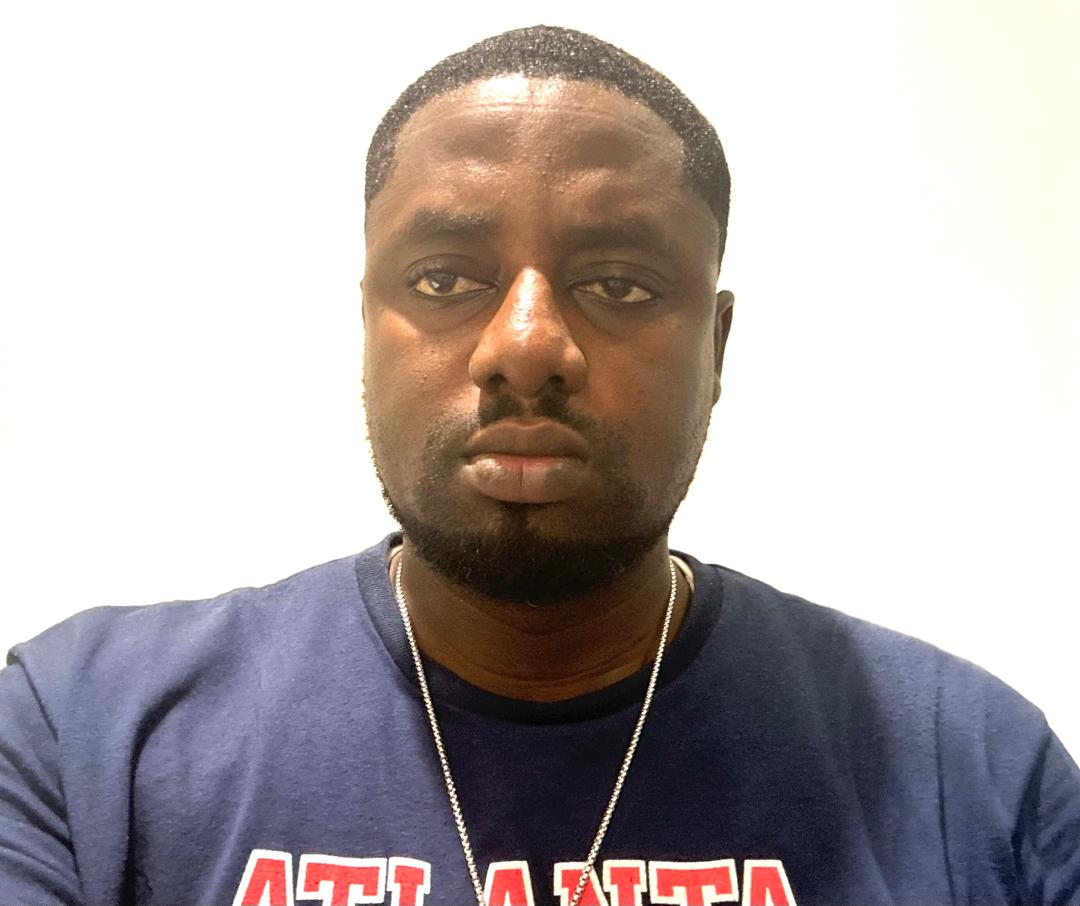
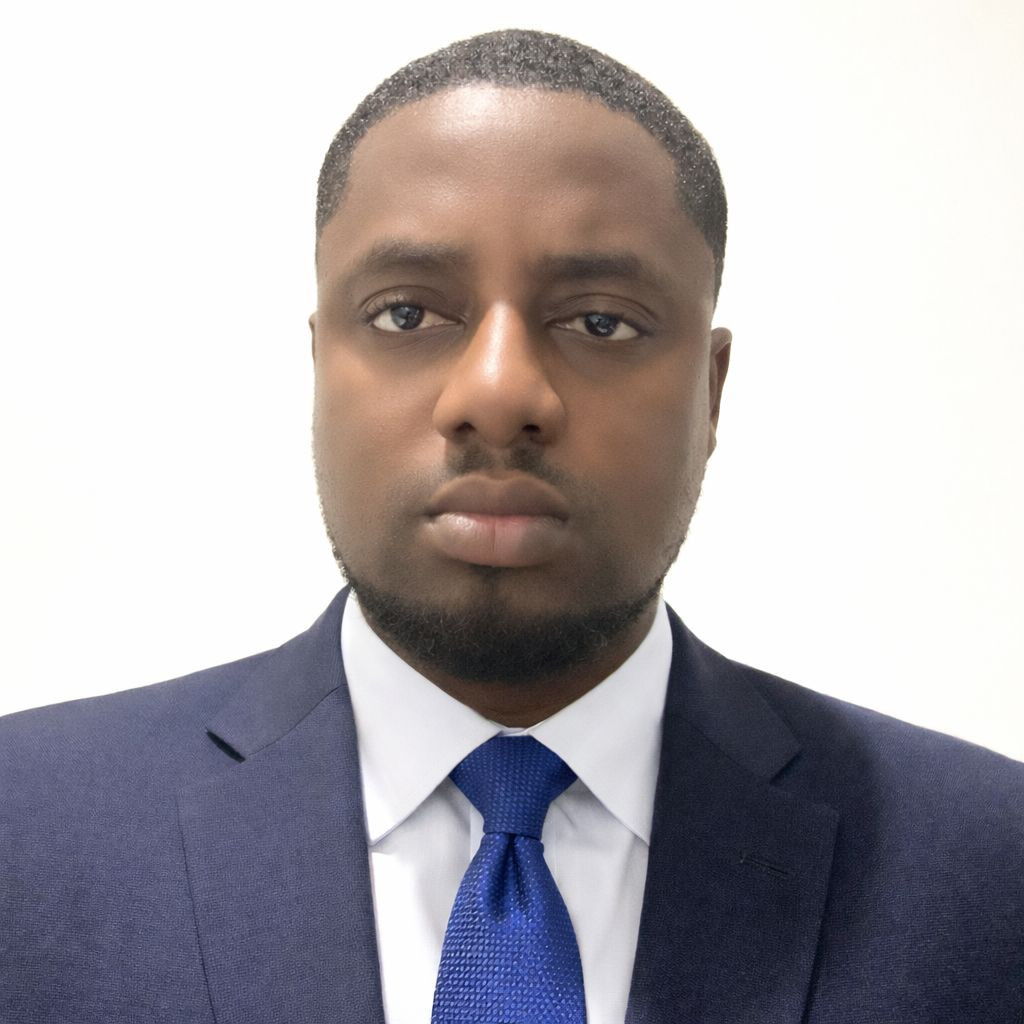
minor changes

diff --git a/src/components/Footer.tsx b/src/components/Footer.tsx
@@ -9,10 +9,10 @@ const Footer = () => {
           {/* Brand */}
           <div className="md:col-span-1">
             <h3 className="font-display text-2xl font-bold mb-4">
-              PK5<span className="text-gold"> Agro</span>
+              PK5<span className="text-gold"> Agro-Allied</span>
             </h3>
             <p className="font-body text-primary-foreground/60 text-sm leading-relaxed">
-              Cultivating excellence across Nigeria's agricultural landscape since 2025.
+              Cultivating excellence across the agricultural landscape since 2021.
             </p>
           </div>
 
@@ -36,7 +36,7 @@ const Footer = () => {
           <div>
             <h4 className="font-display text-lg font-semibold mb-4 text-gold">Products</h4>
             <div className="flex flex-col gap-2">
-              {["Palm Kernel", "Cocoa", "plantains"].map((item) => (
+              {["Palm Kernel", "Cocoa", "Plantain"].map((item) => (
                 <Link
                   key={item}
                   to="/products"
@@ -70,36 +70,36 @@ const Footer = () => {
               </a>
 
               <a
-                href="https://www.google.com/maps?q=Apt.%20B%20Imanium%20Estate,%20Nathaniel%20Akpan%20Street,%20Off%20Ekpri%20Nsukara,%20Uyo,%20Akwa%20Ibom%20State"
+                href="https://www.google.com/maps/search/?api=1&query=2%2F5%2C+Nza+Street%2C+Independence+Layout+Enugu%2C+Enugu+State%2C+Nigeria"
                 target="_blank"
                 rel="noopener noreferrer"
                 className="flex items-start gap-3 hover:text-gold transition-colors"
               >
                 <MapPin className="w-4 h-4 text-gold mt-0.5 shrink-0" />
                 <span className="font-body text-sm text-primary-foreground/60 hover:text-primary-foreground">
-                  Apt. B Imanium Estate, Nathaniel Akpan Street, Off Ekpri Nsukara. Uyo. Akwa Ibom State.
+                  2/5, Nza Street, Independence Layout Enugu, Enugu State, Nigeria
                 </span>
               </a>
 
               {/* Phone */}
               <a
-                href="tel:+2348026133205"
+                href="tel:+14044365533"
                 className="flex items-center gap-3 hover:text-gold transition-colors"
               >
                 <Phone className="w-4 h-4 text-gold shrink-0" />
                 <span className="font-body text-sm text-primary-foreground/60 hover:text-primary-foreground">
-                  +2348026133205
+                  +1 (404) 436-5533               
                 </span>
               </a>
 
               {/* Email */}
               <a
-                href="mailto:info@agroallied.com"
+                href="mailto:Info@pk5agroallied.com"
                 className="flex items-center gap-3 hover:text-gold transition-colors"
               >
                 <Mail className="w-4 h-4 text-gold shrink-0" />
                 <span className="font-body text-sm text-primary-foreground/60 hover:text-primary-foreground">
-                  info@agroallied.com
+                  Info@pk5agroallied.com
                 </span>
               </a>
 
@@ -107,15 +107,15 @@ const Footer = () => {
           </div>
         </div>
 
-        <div className="border-t border-primary-foreground/10 pt-8 flex flex-col md:flex-row justify-between items-center gap-4">
+        <div className="border-t border-primary-foreground/10 pt-8 flex flex-col md:flex-row justify-center items-center gap-4">
           <p className="font-body text-xs text-primary-foreground/40">
-            © 2025 PK5 Agro Allied. All rights reserved.
+            ©{new Date().getFullYear()} PK5 Agro-Allied. All rights reserved.
           </p>
-          <div className="flex gap-6">
+          {/* <div className="flex gap-6">
             <span className="font-body text-xs text-primary-foreground/40">NAFDAC Certified</span>
             <span className="font-body text-xs text-primary-foreground/40">SON Approved</span>
             <span className="font-body text-xs text-primary-foreground/40">Export Licensed</span>
-          </div>
+          </div> */}
         </div>
       </div>
     </footer>

diff --git a/src/pages/Contact.tsx b/src/pages/Contact.tsx
@@ -96,7 +96,7 @@ function Contact() {
 
                   {/* Branch Office */}
                   <a
-                    href="https://www.google.com/maps/search/?api=1&query=Apt+B+Imanium+Estate+Nathaniel+Akpan+Street+Off+Ekpri+Nsukara+Uyo+Akwa+Ibom+State+Nigeria"
+                    href="https://www.google.com/maps/search/?api=1&query=2%2F5%2C+Nza+Street%2C+Independence+Layout+Enugu%2C+Enugu+State%2C+Nigeria"
                     target="_blank"
                     rel="noopener noreferrer"
                     className="flex items-start gap-4 hover:bg-muted/40 p-2 rounded-lg transition"
@@ -109,7 +109,7 @@ function Contact() {
                         Branch Office
                       </h3>
                       <p className="font-body text-sm text-muted-foreground">
-                        Apt. B Imanium Estate, Nathaniel Akpan Street, Off Ekpri Nsukara, Uyo, Akwa Ibom State, Nigeria
+                       2/5, Nza Street, Independence Layout Enugu, Enugu State, Nigeria
                       </p>
                     </div>
                   </a>
@@ -120,16 +120,16 @@ function Contact() {
                     </div>
                     <div>
                       <h3 className="font-body text-sm font-semibold text-foreground">Phone</h3>
-                      <p className="font-body text-sm text-muted-foreground">+234 802 613 3205</p>
+                      <p className="font-body text-sm text-muted-foreground">+1 (404) 436-5533</p>
                     </div>
                   </a>
-                  <a href="mailto:info@agroallied.com" className="flex items-start gap-4 hover:bg-muted/40 p-2 rounded-lg transition">
+                  <a href="mailto:Info@pk5agroallied.com" className="flex items-start gap-4 hover:bg-muted/40 p-2 rounded-lg transition">
                     <div className="w-10 h-10 rounded-full bg-primary/10 flex items-center justify-center shrink-0">
                       <Mail className="w-5 h-5 text-accent" />
                     </div>
                     <div>
                       <h3 className="font-body text-sm font-semibold text-foreground">Email</h3>
-                      <p className="font-body text-sm text-muted-foreground">info@agroallied.com</p>
+                      <p className="font-body text-sm text-muted-foreground">Info@pk5agroallied.com</p>
                     </div>
                   </a>
                 </div>
@@ -185,7 +185,7 @@ function Contact() {
                         disabled={isSubmitting}
                         value={form.phone}
                         onChange={(e) => setForm({ ...form, phone: e.target.value })}
-                        placeholder="+234..."
+                        placeholder="e.g +1404..... "
                       />
                     </div>
                     <div>

diff --git a/src/pages/About.tsx b/src/pages/About.tsx
@@ -14,8 +14,7 @@ const About = () => {
             Our Story
           </h1>
           <p className="font-body text-primary-foreground/70 text-lg leading-relaxed">
-            PK5 Agro Allied was founded with a single vision: to harness Nigeria's vast
-            agricultural potential and deliver world-class products to local and international markets.
+            PK5 Agro-Allied was founded with a single vision: to harness vast agricultural potential and deliver world-class products to local and international markets.
           </p>
         </div>
       </section>
@@ -75,9 +74,9 @@ const About = () => {
           </h2>
           <div className="grid grid-cols-1 sm:grid-cols-3 gap-8 max-w-4xl mx-auto">
             {[
-              { name: "Prince Nnaemeka Njoku", role: "CEO & Founder", image: princeImg },
-              { name: "Peter Eziakor", role: "Head of Facilities & Production", image: peterImg},
-              { name: "Alozie Okwukanma", role: "Head of IT", image: alozieImg},
+              { name: "Prince  Njoku", role: "CEO & Founder", image: princeImg },
+              { name: "Peter Eziakor", role: "Director of Corporate Affairs", image: peterImg},
+              { name: "Alozie Okwukanma", role: "Director of ICT", image: alozieImg},
             ].map((person) => (
               <div key={person.name} className="p-6 rounded-lg bg-card shadow-sm border border-border">
                 <div className="w-20 h-24 mx-auto mb-4 rounded-full bg-primary/10 flex items-center justify-center">

diff --git a/src/components/HeroSection.tsx b/src/components/HeroSection.tsx
@@ -12,15 +12,14 @@ const HeroSection = () => {
       <div className="absolute inset-0 bg-overlay-dark" />
       <div className="relative z-10 text-center px-4 sm:px-6 max-w-4xl mx-auto">
         <p className="text-gold font-body text-sm md:text-base tracking-[0.3em] uppercase mb-4 opacity-0 animate-fade-in">
-          PK5 Agro Allied
+          PK5 Agro-Allied
         </p>
         <h1 className="font-display text-4xl sm:text-5xl md:text-7xl font-bold text-primary-foreground leading-tight mb-6 opacity-0 animate-fade-in-delay-1">
           Cultivating Excellence.{" "}
           <span className="text-gradient-gold">Processing Quality.</span>
         </h1>
         <p className="font-body text-primary-foreground/80 text-lg md:text-xl max-w-2xl mx-auto mb-10 opacity-0 animate-fade-in-delay-2">
-          From fertile Nigerian farmlands to global markets — premium Palm Kernel,
-          Cocoa, and plantains products cultivated with care and processed to perfection.
+          From sustainably managed farmlands to global markets — premium agricultural commodities cultivated with care and processed to perfection.
         </p>
         <div className="flex flex-col sm:flex-row gap-4 justify-center opacity-0 animate-fade-in-delay-3">
           <Button asChild variant="gold" size="lg">

diff --git a/src/components/AboutPreview.tsx b/src/components/AboutPreview.tsx
@@ -36,10 +36,9 @@ const AboutPreview = () => {
               Rooted in Agriculture, Growing for the Future
             </h2>
             <p className="font-body text-muted-foreground leading-relaxed mb-6">
-              PK5 Agro Allied is a leading Nigerian agro-allied company specializing in the
-              cultivation, processing, and export of premium agricultural commodities. With over
-              3,000 hectares of farmland and state-of-the-art processing facilities, we bridge
-              the gap between traditional farming excellence and modern market demands.
+              PK5 Agro-Allied is a premier agricultural enterprise specializing in the cultivation,
+              processing, and export of high-grade commodities. 
+              With extensive land holdings and state-of-the-art processing facilities, we bridge the gap between traditional farming excellence and modern market demands.
             </p>
             <p className="font-body text-muted-foreground leading-relaxed">
               Our commitment to sustainable practices, community empowerment, and

diff --git a/src/pages/Products.tsx b/src/pages/Products.tsx
@@ -25,7 +25,7 @@ const productData = [
     image: cocoaImg,
     tagline: "Premium Beans for a Global Palate",
     description:
-      "Our cocoa beans are carefully fermented, sun-dried, and sorted to meet the highest international export standards. Sourced from farms in Nigeria's cocoa belt, every batch delivers rich flavor and premium quality.",
+      "Our cocoa beans are carefully fermented, sun-dried, and sorted to meet the highest international export standards. Sourced from the heart of the regional cocoa belt, every batch delivers rich flavor and premium quality.",
     specs: [
       "Bean Count: 90-100 per 100g",
       "Moisture: < 7.5%",

diff --git a/src/components/ProductsPreview.tsx b/src/components/ProductsPreview.tsx
@@ -18,7 +18,7 @@ const products = [
   },
   {
     title: "Plantain",
-    description: "Fresh plantain and processed plantain products sourced from our sustainable farms across Nigeria.",
+    description: "Fresh plantain and processed plantain products sourced from our sustainable farms across the globe.",
     image: plantainImg,
     link: "/products#plantain",
   },

diff --git a/src/pages/Index.tsx b/src/pages/Index.tsx
@@ -10,7 +10,7 @@ const Index = () => {
     <main>
       <HeroSection />
       <ProductsPreview />
-      <StatsSection />
+      {/* <StatsSection /> */}
       <AboutPreview />
       <SustainabilitySection />
       <CTASection />
